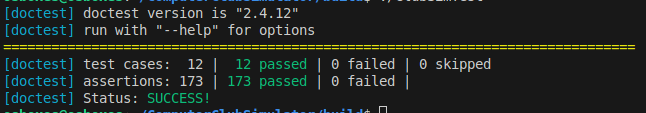
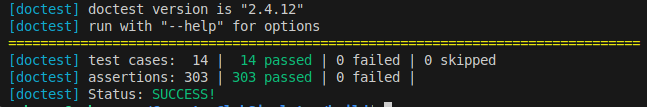
Add more verification checks

diff --git a/test/test.cpp b/test/test.cpp
@@ -187,6 +187,30 @@ TEST_CASE("ClubLogger test") {
     CHECK(logger.getProfit()->at(0).getUseTime() == 4);
 }
 
+TEST_CASE("Parser number validator test") {
+    Parser parser;
+    std::string goodNumbers[] = {"42", "-017"};
+    std::string badNumbers[] = {"0x2A", "3.1459", "1 one", "-19-1"};
+    for (int i = 0; i < 2; ++i) {
+        CHECK(parser.checkDecimal(goodNumbers[i]));
+    }
+    for (int i = 0; i < 4; ++i) {
+        CHECK(!parser.checkDecimal(badNumbers[i]));
+    }
+}
+
+TEST_CASE("Parser name validator test") {
+    Parser parser;
+    std::string goodNames[] = {"max", "many-separators_in_1-name"};
+    std::string badNames[] = {"john doe", "Capital", "apostroph's", "иван"};
+    for (int i = 0; i < 2; ++i) {
+        CHECK(parser.checkName(goodNames[i]));
+    }
+    for (int i = 0; i < 4; ++i) {
+        CHECK(!parser.checkName(badNames[i]));
+    }
+}
+
 TEST_CASE("Parser test") {
     Parser parser;
     SUBCASE("Base test") {
@@ -341,5 +365,98 @@ TEST_CASE("Parser test") {
         for (int i = 0; i < out.size(); ++i) {
             CHECK(out[i] == result[i]);
         }
+    }
+
+    SUBCASE("Invalid tables") {
+        std::string filenames[] = {"./../examples/bad_tables/letters.txt", "./../examples/bad_tables/mix.txt",
+             "./../examples/bad_tables/negative.txt", "./../examples/bad_tables/two_values.txt",
+              "./../examples/bad_tables/zero.txt"
+        };
+        std::vector<std::string> results = {"one", "11tables", "-12", "3 5", "0"};
+        for (int i = 0; i < 5; ++i) {
+            std::vector<std::string> out;
+            parser.parse(filenames[i], out);
+            REQUIRE(out.size() == 1);
+            CHECK(out[0] == results[i]);
+        }
+    }
+
+    SUBCASE("Invalid cost") {
+        std::string filenames[] = {"./../examples/bad_cost/letters.txt", "./../examples/bad_cost/mix.txt",
+             "./../examples/bad_cost/negative.txt", "./../examples/bad_cost/two_values.txt",
+              "./../examples/bad_cost/zero.txt"
+        };
+        std::vector<std::string> results = {"one", "11tables", "-12", "3 5", "0"};
+        for (int i = 0; i < results.size(); ++i) {
+            std::vector<std::string> out;
+            parser.parse(filenames[i], out);
+            REQUIRE(out.size() == 1);
+            CHECK(out[0] == results[i]);
+        }
+    }
+
+    SUBCASE("Invalid name") {
+        std::string filenames[] = {"./../examples/bad_names/capital.txt", "./../examples/bad_names/cyrillic.txt",
+            "./../examples/bad_names/star.txt", "./../examples/bad_names/two_values.txt",
+       };
+       std::vector<std::string> results = {"12:00 2 Capital 1", "12:00 3 иван", "12:00 1 regexp*", "12:00 4 john doe"};
+       for (int i = 0; i < results.size(); ++i) {
+           std::vector<std::string> out;
+           parser.parse(filenames[i], out);
+           REQUIRE(out.size() == 1);
+           CHECK(out[0] == results[i]);
+       }
+    }
+
+    SUBCASE("Invalid event") {
+        std::string filenames[] = {"./../examples/bad_event/bad_time.txt", "./../examples/bad_event/big_table.txt",
+            "./../examples/bad_event/big_type.txt", "./../examples/bad_event/negative_table.txt",
+            "./../examples/bad_event/negative_type.txt", "./../examples/bad_event/zero_table.txt",
+            "./../examples/bad_event/zero_type.txt"
+       };
+       std::vector<std::string> results = {"9:35 1 client1", "09:36 2 client1 2", "09:35 11 client1",
+            "09:36 2 client1 -1", "09:35 -1 client1", "09:36 2 client1 0", "09:35 0 client1"
+        };
+       for (int i = 0; i < results.size(); ++i) {
+           std::vector<std::string> out;
+           parser.parse(filenames[i], out);
+           REQUIRE(out.size() == 1);
+           CHECK(out[0] == results[i]);
+       }
+    }
+
+    SUBCASE("Invalid format") {
+        std::string filenames[] = {"./../examples/bad_format/little_args_1.txt",
+            "./../examples/bad_format/little_args_2.txt", "./../examples/bad_format/little_args_3.txt",
+            "./../examples/bad_format/little_args_4.txt", "./../examples/bad_format/many_args_1.txt",
+            "./../examples/bad_format/many_args_2.txt", "./../examples/bad_format/many_args_3.txt",
+            "./../examples/bad_format/one_time.txt", "./../examples/bad_format/swap_time.txt"
+       };
+       std::vector<std::string> results = {"12:30 1", "12:30 2 client1", "3 client1", "4",
+         "12:30 1 client1 smth", "12:30 2 client1 1 12", "12:30 3 client1 12", "12:00", "12:29 1 client2"
+        };
+       for (int i = 0; i < results.size(); ++i) {
+           std::vector<std::string> out;
+           parser.parse(filenames[i], out);
+           REQUIRE(out.size() == 1);
+           CHECK(out[0] == results[i]);
+       }
+    }
+
+    SUBCASE("Invalid values") {
+        std::string filenames[] = {"./../examples/bad_values/header_time.txt",
+            "./../examples/bad_values/swap_header_time.txt", "./../examples/bad_values/table.txt",
+            "./../examples/bad_values/three_time_header.txt", "./../examples/bad_values/time.txt",
+            "./../examples/bad_values/type.txt"
+       };
+       std::vector<std::string> results = {"12:00 thirteen", "13:00 12:00", "12:30 2 client1 table", 
+         "12:00 13:00 14:00", "time 1 client1", "12:30 one client1"
+        };
+       for (int i = 0; i < results.size(); ++i) {
+           std::vector<std::string> out;
+           parser.parse(filenames[i], out);
+           REQUIRE(out.size() == 1);
+           CHECK(out[0] == results[i]);
+       }
     }
 }

diff --git a/src/parser.cpp b/src/parser.cpp
@@ -12,7 +12,7 @@ void Parser::parse(std::string filename, std::vector<std::string>& outLines) {
     std::string line;
     std::getline(fin, line);
     int tablesN = std::atoi(line.c_str());
-    if (tablesN <= 0) {
+    if (tablesN <= 0 || !checkDecimal(line)) {
         writeError(outLines, line);
         return;
     }
@@ -24,6 +24,12 @@ void Parser::parse(std::string filename, std::vector<std::string>& outLines) {
     try {
         realStartTime = strToTime(startTime);
         realEndTime = strToTime(endTime);
+        std::string remains;
+        sStream >> remains;
+        if (realStartTime > realEndTime || remains.size() > 0) {
+            writeError(outLines, line);
+            return;
+        }
     }
     catch (...) {
         writeError(outLines, line);
@@ -31,7 +37,7 @@ void Parser::parse(std::string filename, std::vector<std::string>& outLines) {
     }
     std::getline(fin, line);
     int cost = std::atoi(line.c_str());
-    if (cost <= 0) {
+    if (cost <= 0 || !checkDecimal(line)) {
         writeError(outLines, line);
         return;
     }
@@ -68,14 +74,11 @@ bool Parser::parseEvents(std::ifstream& fin, std::vector<std::string>& outLines,
             writeError(outLines, line);
             return false;
         }
-        if (realTime < lastTime) {
+        if (realTime < lastTime || type < 1 || type > 4 || !checkName(name)) {
             writeError(outLines, line);
             return false;
         }
-        if (type < 1 || type > 4) {
-            writeError(outLines, line);
-            return false;
-        }
+        lastTime = realTime;
         IncomeEvent* ev;
         if (type == 1) {
             ev = new EventCome(realTime, name);
@@ -84,7 +87,7 @@ bool Parser::parseEvents(std::ifstream& fin, std::vector<std::string>& outLines,
             int table;
             sStream >> table;
             table--;
-            if (table < 0 || table > club->getProfit()->size()) {
+            if (table < 0 || table >= club->getProfit()->size()) {
                 writeError(outLines, line);
                 return false;
             }
@@ -97,6 +100,12 @@ bool Parser::parseEvents(std::ifstream& fin, std::vector<std::string>& outLines,
             ev = new EventGone(realTime, name);
         }
         if (sStream.fail()) {
+            writeError(outLines, line);
+            return false;
+        }
+        std::string remains;
+        sStream >> remains;
+        if (remains.size() > 0) {
             writeError(outLines, line);
             return false;
         }
@@ -119,4 +128,26 @@ void Parser::writeProfit(std::vector<std::string>& outLines, ClubLogger* club) {
         sStream << i + 1 << ' ' << tables->at(i).getIncome() << ' ' << timeToStr(tables->at(i).getUseTime());
         outLines.push_back(sStream.str());
     }
+}
+
+bool Parser::checkDecimal(const std::string& number) {
+    int i = 0;
+    if (number.size() > 0 && number[i] == '-') {
+        i++;
+    }
+    for (; i < number.size(); ++i) {
+        if ('0' > number[i] || number[i] > '9') {
+            return false;
+        }
+    }
+    return true;
+}
+
+bool Parser::checkName(const std::string& name) {
+    for (int i = 0; i < name.size(); ++i) {
+        if (!((name[i] >= 'a' && name[i] <= 'z') || (name[i] >= '0' && name[i] <= '9') || name[i] == '_' || name[i] == '-')) {
+            return false;
+        }
+    }
+    return true;
 }

diff --git a/include/parser.h b/include/parser.h
@@ -9,6 +9,8 @@ class Parser {
 public:
     Parser() = default;
     void parse(std::string filename, std::vector<std::string>& outLines);
+    bool checkDecimal(const std::string& number);
+    bool checkName(const std::string& name);
 private:
     bool parseEvents(std::ifstream& fin, std::vector<std::string>& outLines, ClubLogger* club);
     void writeEvents(std::vector<std::string>& outLines, ClubLogger* club);
